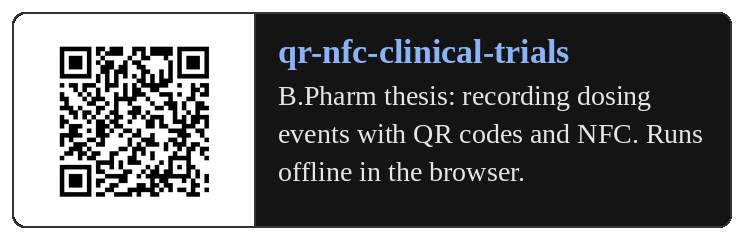
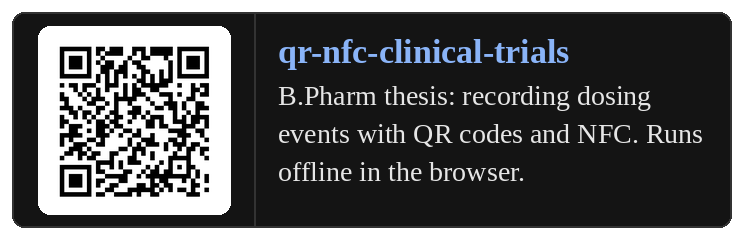
Safer profile build: escape alt text, overflow checks, QR tile
The build now stops if card text would overflow or a picture is missing. Alt text and links are escaped. The QR code sits on a soft tile in dark mode.

Changed region(s): [[0.0, 0.0583, 0.3401, 0.9625]]

diff --git a/folio/build.py b/folio/build.py
@@ -15,9 +15,10 @@ thin outlined cards with small corners, link blue for titles.
 """
 
 import json
+from html import escape as _escape
 from pathlib import Path
 
-from PIL import Image, ImageDraw, ImageFont
+from PIL import Image, ImageChops, ImageDraw, ImageFont
 
 ROOT = Path(__file__).resolve().parent.parent
 FOLIO = ROOT / "folio"
@@ -47,6 +48,11 @@ FONT_FILES = {
     "italic": ["/System/Library/Fonts/Supplemental/Times New Roman Italic.ttf",
                "/usr/share/fonts/truetype/liberation/LiberationSerif-Italic.ttf"],
 }
+
+
+def escape(text):
+    """Make text safe inside an HTML attribute (keeps apostrophes readable)."""
+    return _escape(text, quote=False).replace('"', "&quot;")
 
 
 def font(style, size):
@@ -93,17 +99,20 @@ def picture(spec, theme, t, w, h):
     if spec.get("trim"):
         bg = src.getpixel((0, 0))
         diff = Image.new("RGB", src.size, bg)
-        from PIL import ImageChops
         box = ImageChops.difference(src, diff).getbbox()
         if box:
             src = src.crop(box)
     W, H = w * S, h * S
     if spec.get("fit") == "contain":
-        fill = spec.get("bg", t["card"])
-        out = Image.new("RGB", (W, H), fill)
+        out = Image.new("RGB", (W, H), t["card"])
         scale = min((W - 24 * S) / src.width, (H - 24 * S) / src.height)
         small = src.resize((max(1, int(src.width * scale)), max(1, int(src.height * scale))), Image.LANCZOS)
-        out.paste(small, ((W - small.width) // 2, (H - small.height) // 2))
+        x, y = (W - small.width) // 2, (H - small.height) // 2
+        if spec.get("bg"):  # a small rounded tile behind the picture (a QR code needs a light background)
+            m = 6 * S
+            ImageDraw.Draw(out).rounded_rectangle((x - m, y - m, x + small.width + m, y + small.height + m),
+                                                  radius=6 * S, fill=spec["bg"])
+        out.paste(small, (x, y))
         return out
     scale = max(W / src.width, H / src.height)  # "cover": fill the box, cut the edges
     big = src.resize((int(src.width * scale) + 1, int(src.height * scale) + 1), Image.LANCZOS)
@@ -162,9 +171,19 @@ def draw_card(card, theme):
             line_icon(d, card["icon"], cx, cy, size, t["muted"])
             tw -= size + 8 * S
 
+    # Stop with a clear message instead of drawing text past the card's edge.
+    if d.textlength(card["title"], font=title_f) > tw:
+        raise SystemExit(f"Card '{card['id']}': the title is too long for a {card['kind']} card. Shorten it in profile.json.")
+    bottom = (y1 - pad - 16 * S) if card.get("tags") else (y1 - 6 * S)  # keep a small margin
+    lines = wrap(d, card["text"], text_f, tw)
+    if ty + 24 * S + (len(lines) - 1) * 19 * S + text_f.getbbox("gy")[3] > bottom:
+        raise SystemExit(f"Card '{card['id']}': the text needs {len(lines)} lines and does not fit. Shorten it in profile.json.")
+    if card.get("tags") and d.textlength(card["tags"], font=tag_f) > tw:
+        raise SystemExit(f"Card '{card['id']}': the tags line is too long. Shorten it in profile.json.")
+
     d.text((tx, ty), card["title"], font=title_f, fill=t["link"])
     ty += 24 * S
-    for line in wrap(d, card["text"], text_f, tw)[:3]:
+    for line in lines:
         d.text((tx, ty), line, font=text_f, fill=t["fg"])
         ty += 19 * S
     if card.get("tags"):
@@ -274,12 +293,30 @@ def themed(name_stub, alt, url=None, size=None, extra=""):
     """HTML that shows the light or dark image to match the viewer's theme."""
     w, h = size
     tag = (f'<picture><source media="(prefers-color-scheme: dark)" srcset="assets/folio/{name_stub}-dark.png" />'
-           f'<img src="assets/folio/{name_stub}-light.png" alt="{alt}" width="{w}" height="{h}"{extra} /></picture>')
-    return f'<a href="{url}">{tag}</a>' if url else tag
+           f'<img src="assets/folio/{name_stub}-light.png" alt="{escape(alt)}" width="{w}" height="{h}"{extra} /></picture>')
+    return f'<a href="{escape(url)}">{tag}</a>' if url else tag
+
+
+def check_files(p):
+    """Stop early if profile.json points at a picture or icon that is not there."""
+    missing = []
+    icons = [s["icon"] for s in p["social"]] + [row[0] for row in p["about"]]
+    for icon in icons:
+        missing += [f"assets/icons/{icon}-{theme}.svg" for theme in THEMES
+                    if not (ROOT / "assets" / "icons" / f"{icon}-{theme}.svg").exists()]
+    for section in p["sections"]:
+        for row in section["rows"]:
+            for card in row:
+                image = card.get("image", {})
+                missing += [f"folio/shots/{image[theme]}" for theme in THEMES
+                            if theme in image and not (SHOTS / image[theme]).exists()]
+    if missing:
+        raise SystemExit("Missing files:\n  " + "\n  ".join(sorted(set(missing))))
 
 
 def main():
     p = json.loads((FOLIO / "profile.json").read_text())
+    check_files(p)
     html = ["<!-- Made by folio/build.py from folio/profile.json. Edit those, then run: python3 folio/build.py -->", ""]
 
     # Name, tagline and bio. The bio has a wide version for computers and a narrow one for phones.
@@ -294,7 +331,7 @@ def main():
         f'<source media="(min-width: 1012px) and (prefers-color-scheme: dark)" srcset="assets/folio/name-dark.png" width="{size[0]}" height="{size[1]}" />'
         f'<source media="(min-width: 1012px)" srcset="assets/folio/name-light.png" width="{size[0]}" height="{size[1]}" />'
         '<source media="(prefers-color-scheme: dark)" srcset="assets/folio/name-narrow-dark.png" />'
-        f'<img src="assets/folio/name-narrow-light.png" alt="{p["name"]}. {p["tagline"]}" width="{nsize[0]}" height="{nsize[1]}" />'
+        f'<img src="assets/folio/name-narrow-light.png" alt="{escape(p["name"] + ". " + p["tagline"])}" width="{nsize[0]}" height="{nsize[1]}" />'
         "</picture></p>"
     )
     html.append(
@@ -302,7 +339,7 @@ def main():
         f'<source media="(min-width: 1012px) and (prefers-color-scheme: dark)" srcset="assets/folio/bio-wide-dark.png" width="{wide[0]}" height="{wide[1]}" />'
         f'<source media="(min-width: 1012px)" srcset="assets/folio/bio-wide-light.png" width="{wide[0]}" height="{wide[1]}" />'
         '<source media="(prefers-color-scheme: dark)" srcset="assets/folio/bio-narrow-dark.png" />'
-        f'<img src="assets/folio/bio-narrow-light.png" alt="{p["bio"]}" width="{narrow[0]}" height="{narrow[1]}" />'
+        f'<img src="assets/folio/bio-narrow-light.png" alt="{escape(p["bio"])}" width="{narrow[0]}" height="{narrow[1]}" />'
         "</picture></p>"
     )
     for theme in THEMES:
@@ -314,9 +351,9 @@ def main():
     icons = []
     for s in p["social"]:
         icons.append(
-            f'<a href="{s["url"]}" title="{s["title"]}"><picture>'
+            f'<a href="{escape(s["url"])}" title="{escape(s["title"])}"><picture>'
             f'<source media="(prefers-color-scheme: dark)" srcset="assets/icons/{s["icon"]}-dark.svg" />'
-            f'<img src="assets/icons/{s["icon"]}-light.svg" width="22" alt="{s["title"]}" /></picture></a>'
+            f'<img src="assets/icons/{s["icon"]}-light.svg" width="22" height="22" alt="{escape(s["title"])}" /></picture></a>'
         )
     html.append('<p align="center">\n  ' + "&nbsp;&nbsp;&nbsp;\n  ".join(icons) + "\n</p>")
     html.append("")

diff --git a/README.md b/README.md
@@ -5,10 +5,10 @@
 <p align="center"><picture><source media="(prefers-color-scheme: dark)" srcset="assets/folio/divider-dark.png" /><img src="assets/folio/divider-light.png" alt="" width="160" height="18" /></picture></p>
 
 <p align="center">
-  <a href="https://falakpatel.com" title="Website"><picture><source media="(prefers-color-scheme: dark)" srcset="assets/icons/web-dark.svg" /><img src="assets/icons/web-light.svg" width="22" alt="Website" /></picture></a>&nbsp;&nbsp;&nbsp;
-  <a href="https://linkedin.com/in/falak-pat3l" title="LinkedIn"><picture><source media="(prefers-color-scheme: dark)" srcset="assets/icons/linkedin-dark.svg" /><img src="assets/icons/linkedin-light.svg" width="22" alt="LinkedIn" /></picture></a>&nbsp;&nbsp;&nbsp;
-  <a href="https://scholar.google.com/citations?user=s6-Bs10AAAAJ" title="Google Scholar"><picture><source media="(prefers-color-scheme: dark)" srcset="assets/icons/scholar-dark.svg" /><img src="assets/icons/scholar-light.svg" width="22" alt="Google Scholar" /></picture></a>&nbsp;&nbsp;&nbsp;
-  <a href="https://x.com/falakpat3l" title="X"><picture><source media="(prefers-color-scheme: dark)" srcset="assets/icons/x-dark.svg" /><img src="assets/icons/x-light.svg" width="22" alt="X" /></picture></a>
+  <a href="https://falakpatel.com" title="Website"><picture><source media="(prefers-color-scheme: dark)" srcset="assets/icons/web-dark.svg" /><img src="assets/icons/web-light.svg" width="22" height="22" alt="Website" /></picture></a>&nbsp;&nbsp;&nbsp;
+  <a href="https://linkedin.com/in/falak-pat3l" title="LinkedIn"><picture><source media="(prefers-color-scheme: dark)" srcset="assets/icons/linkedin-dark.svg" /><img src="assets/icons/linkedin-light.svg" width="22" height="22" alt="LinkedIn" /></picture></a>&nbsp;&nbsp;&nbsp;
+  <a href="https://scholar.google.com/citations?user=s6-Bs10AAAAJ" title="Google Scholar"><picture><source media="(prefers-color-scheme: dark)" srcset="assets/icons/scholar-dark.svg" /><img src="assets/icons/scholar-light.svg" width="22" height="22" alt="Google Scholar" /></picture></a>&nbsp;&nbsp;&nbsp;
+  <a href="https://x.com/falakpat3l" title="X"><picture><source media="(prefers-color-scheme: dark)" srcset="assets/icons/x-dark.svg" /><img src="assets/icons/x-light.svg" width="22" height="22" alt="X" /></picture></a>
 </p>
 
 <p align="center"><picture><source media="(prefers-color-scheme: dark)" srcset="assets/folio/label-building-now-dark.png" /><img src="assets/folio/label-building-now-light.png" alt="Building now" width="400" height="34" /></picture></p>
